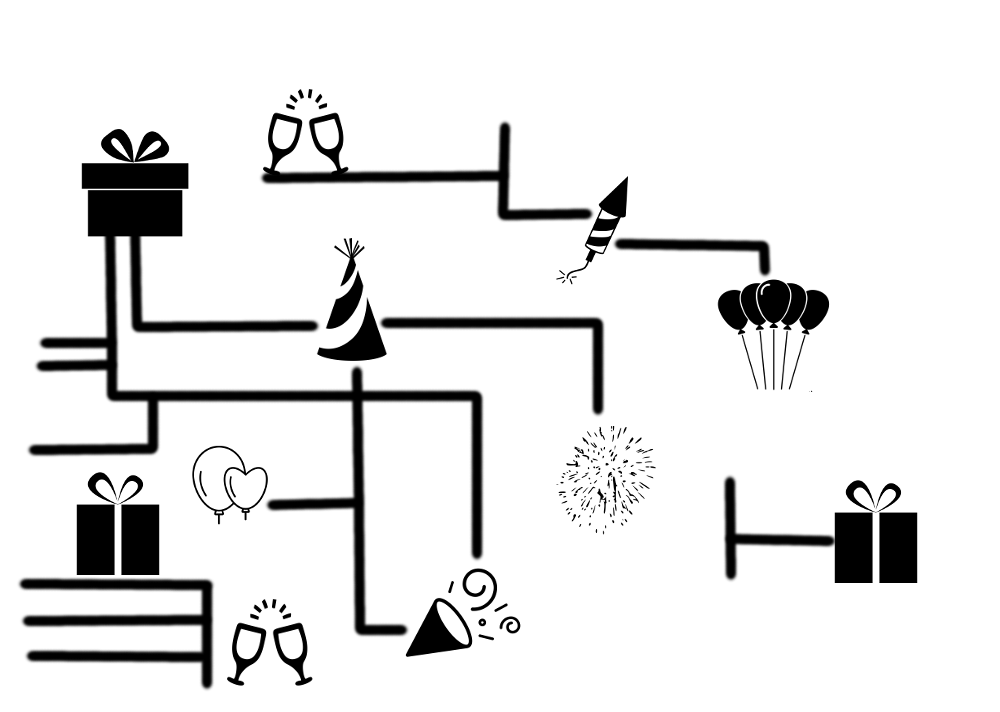
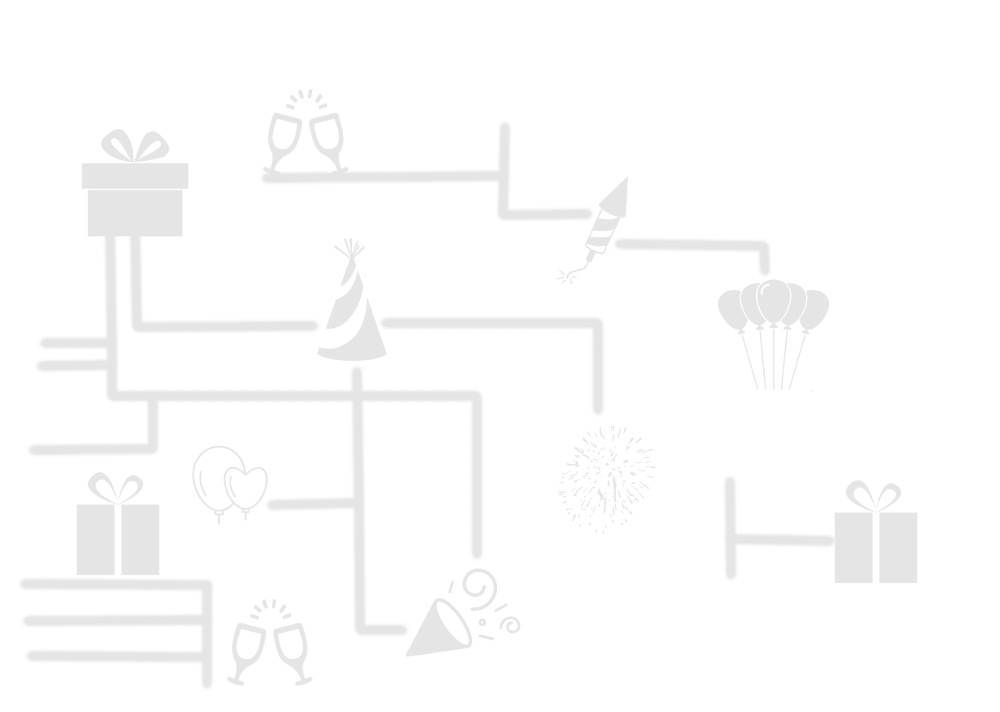
fanday page updated, footer color updated

diff --git a/app/assets/stylesheets/landing-page.css b/app/assets/stylesheets/landing-page.css
@@ -209,7 +209,8 @@ padding-bottom: 4PX;
 
 footer {
     padding: 30px 0;
-    background-color: #002F4D;
+    /*background-color: #002F4D;*/
+    background-color: #171717;
 }
 
 
@@ -3026,24 +3027,27 @@ th.headerSortDown {
   background-color: rgb(56, 56, 56);
 }
 .wrap-2{
-  background-color: #212121;
-  background-image: url('images/fanday-1.png');
-  /*#6475dc -- vurb blue + #458ce3 -- image
+  background-color: #6475dc;
+  /*background-image: url('images/jean-pattern-bg.png');
+  background-repeat: repeat;
+  #6475dc -- vurb blue + #458ce3 -- image
   #5f95d8 + #458ce3 -- image
-  #212121 - black*/
+  #212121 - black
+  text-shadow: 0 1px 0 #c5c5c5;
+  */
 }
 .fan-box{
-  margin-top: 0.6rem;
-  padding: 0.8rem 2rem 2rem 2rem;
+  height: 300px;
+  background-color: rgb(89, 106, 214);
+  box-shadow: 0 0 2px #5363cc inset;
+  /*background-color: rgb(42, 179, 181);-box-bg-color
+  box-shadow: 0 0 2px #279798 inset;*/
   border-radius: 4px;
   border: none;
-  background: #256c93;
-  box-shadow: 0 0 2px #033b40 inset;
-  transition: all 0.75s ease-in-out 1s;
 }
-.fan-q-box{
-  height: 300px;
-  background-color: rgba(0, 0, 0, 0.75);
+.fan-box-btn{
+  background-color: #3b4ec3;
+  /*background-color: #218e90;*/
 }
 .glassy-bg{
   background: url('images/glassy.png') center no-repeat;
@@ -3051,6 +3055,17 @@ th.headerSortDown {
   width: 100%;
   height: 100%;
   background-size: contain;
+}
+.brd-box{
+  border: 1px solid #d4d4d4;
+  border-radius: 2px;
+  -webkit-transition: all 0.3s;
+  -moz-transition: all 0.3s;
+  transition: all 0.3s;
+}
+.fn-ln-mr:hover{
+  border: 1px solid #31cacc;
+  color: #31cacc;
 }
 /******************Other CSS for header and future use *******/
 .header-with-grad{

diff --git a/app/assets/stylesheets/application.css.scss b/app/assets/stylesheets/application.css.scss
@@ -212,6 +212,9 @@ body{
 .pbottom50{
   padding-bottom: 50px;
 }
+.pbottom60{
+  padding-bottom: 60px;
+}
 .pbottom70{
   padding-bottom: 70px;
 }